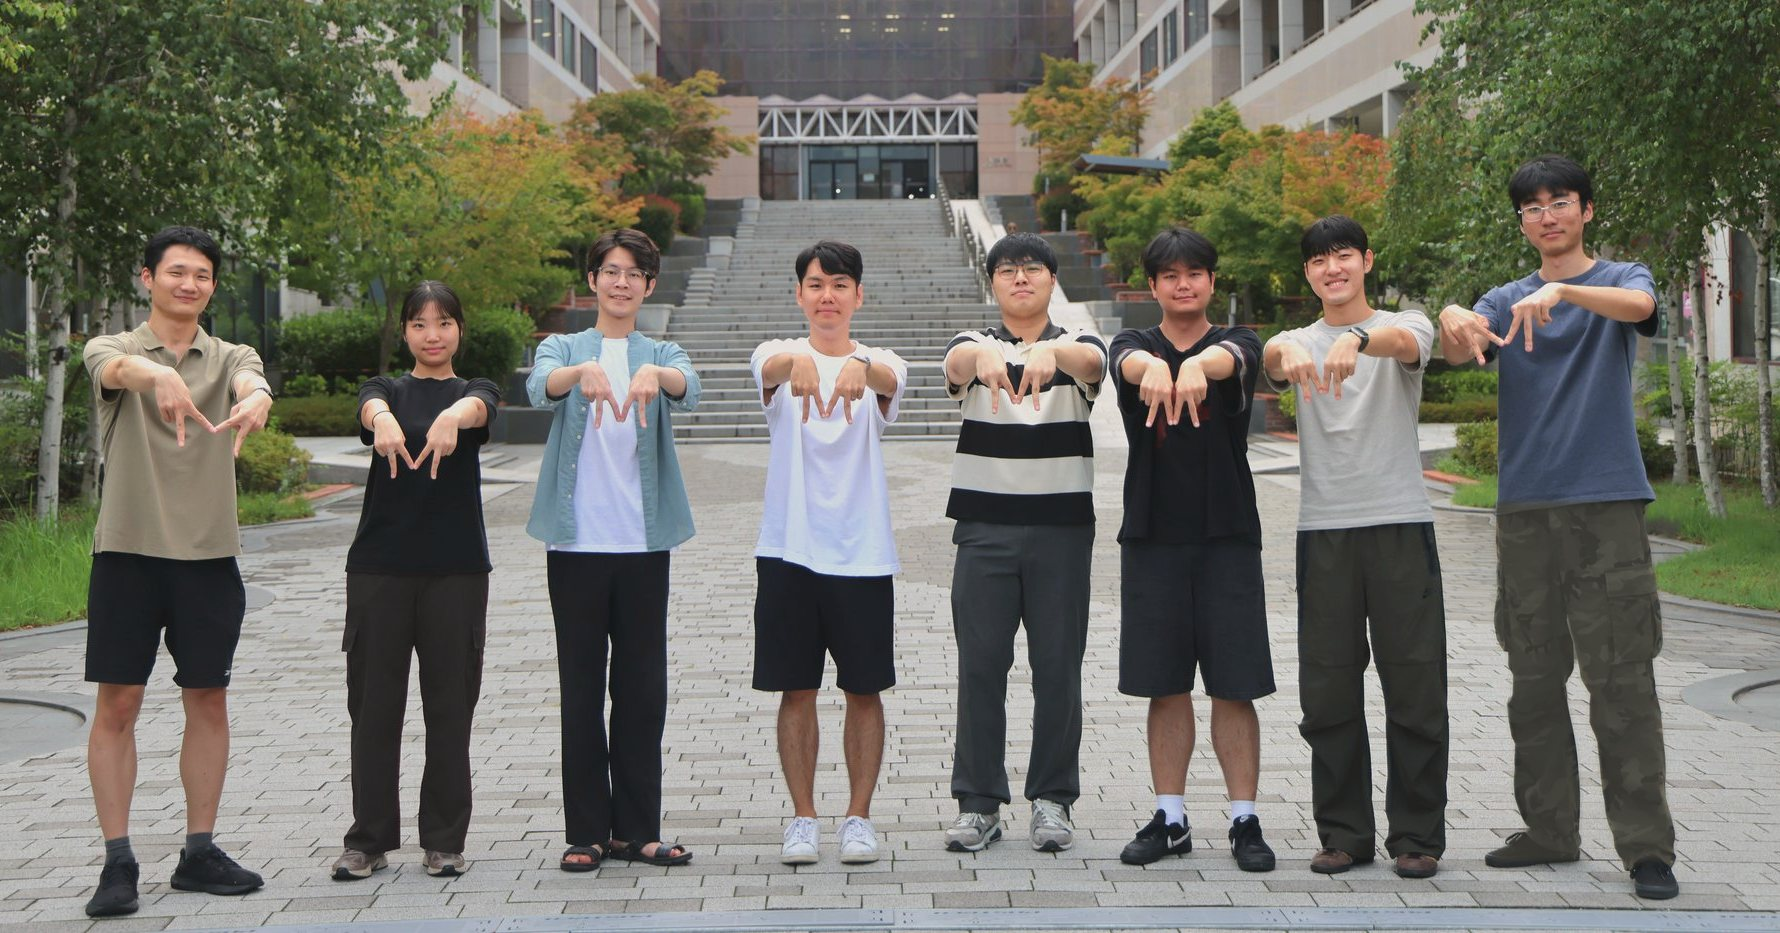
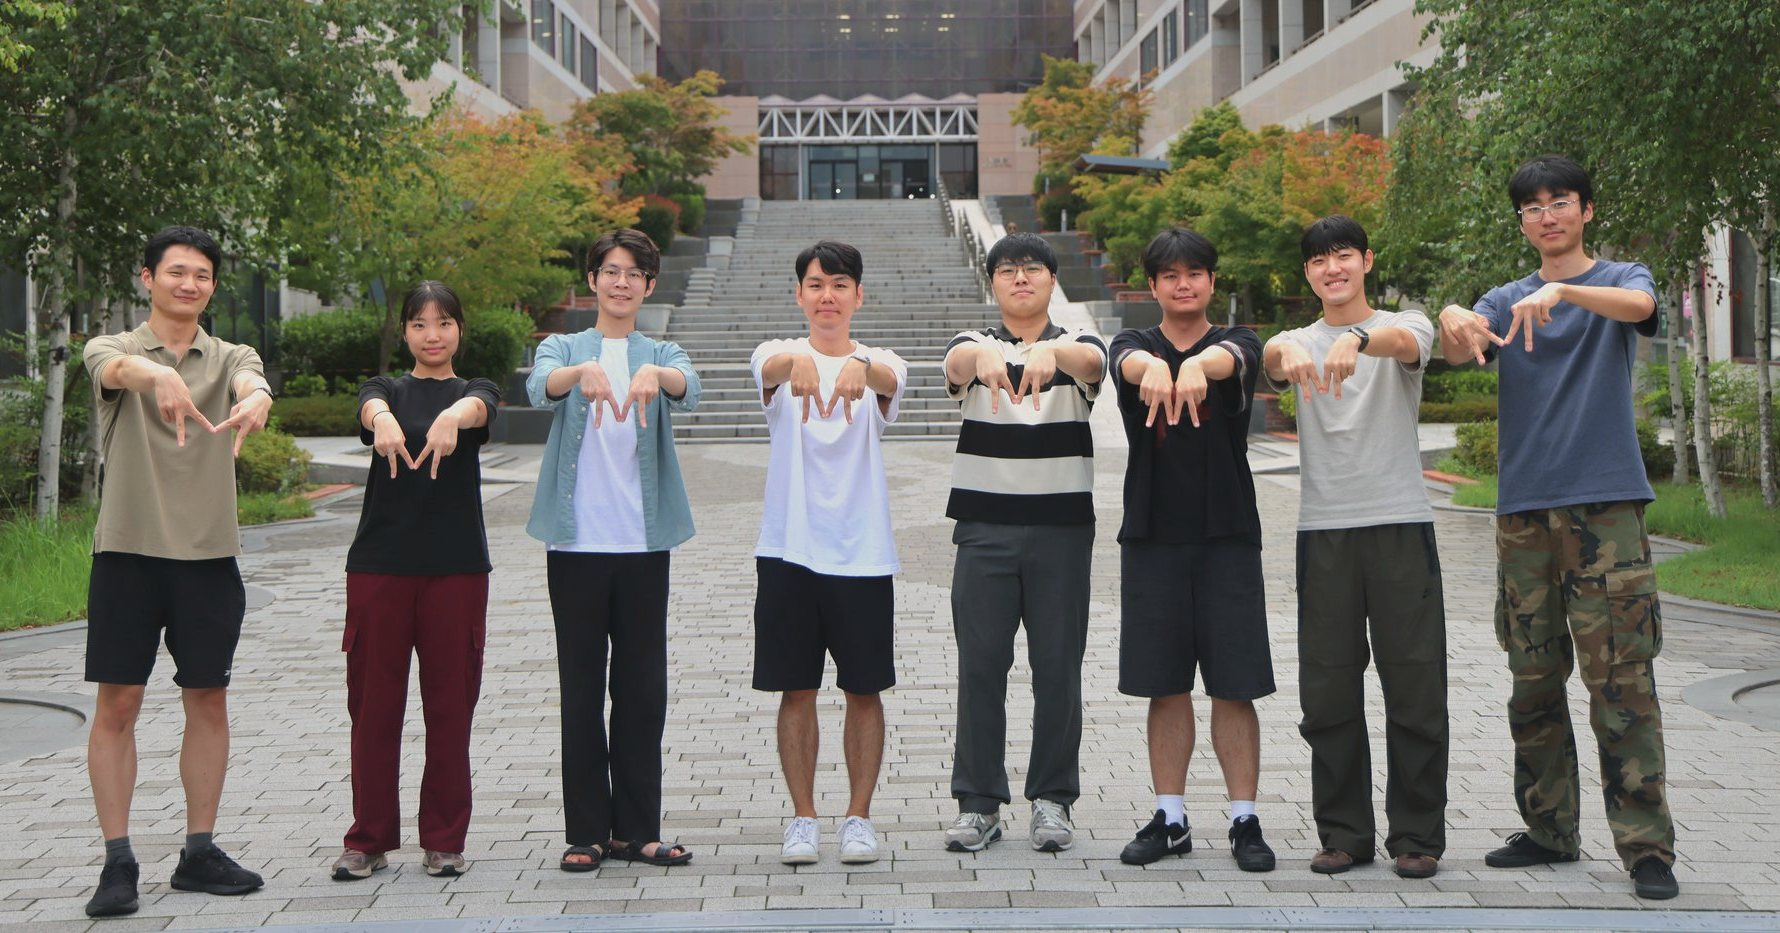
Home group photo: original trouser colours, headroom above the tallest member

diff --git a/_themes/wide/includes/theme.css b/_themes/wide/includes/theme.css
@@ -301,7 +301,7 @@ a.mentee-name:hover { color: var(--accent); }
 .list-intro { margin: 0 0 var(--space-4); color: var(--muted); }  /* one line under a group heading that says what the list is (Teaching: the AI study, 교수 2026-10-27) */
 .list-intro a { color: inherit; font-weight: var(--weight-regular); }
 .list-intro a:hover { color: var(--accent); }
-.section-photo img { display: block; width: 100%; height: var(--photo-height); object-fit: cover; object-position: 50% 40%; border-radius: var(--radius-2); }
+.section-photo img { display: block; width: 100%; height: var(--photo-height); object-fit: cover; object-position: 50% 25%; border-radius: var(--radius-2); }
 .topic-cards { grid-column: span 8; display: grid; grid-template-columns: minmax(0, 1fr); gap: var(--space-4); }  /* one card per row: topics read down the stage like the rail (2026-10-26) */
 .topic-card { display: flex; flex-direction: column; gap: var(--space-2); padding: var(--card-padding); background: var(--surface); border-radius: var(--radius-2); }
 .topic-card h3 { margin: 0; }

diff --git a/changelog/2026-11-03-group-photo-tone.md b/changelog/2026-11-03-group-photo-tone.md
@@ -1,7 +1,7 @@
 # 2026-11-03 Home 단체사진을 사람 중심으로 자르고 사이트 톤에 맞게 보정
 작성자: Sangwoo Mo(moai-postech) | 대상: `assets/img/lab/group-2026.jpg`, `_themes/wide/includes/theme.css` | 도구: Claude Code
 
-> **한줄 결론: 단체사진을 사람 중심으로 미리 자르고 대비·채도를 낮췄으며, 눈에 띄던 바지 두 벌의 색을 다른 멤버의 어두운 하의 톤으로 맞췄다.**
+> **한줄 결론: 단체사진을 사람 중심으로 미리 자르고 대비·채도를 낮췄다. 띠는 머리 위에 여백을 두고 아래쪽 바지를 더 자른다.**
 
 POSTECH 요구사항: 영향 없음
 
@@ -17,7 +17,12 @@ POSTECH 요구사항: 영향 없음
 - 버건디 바지: 붉은 영역만 골라 짙은 차콜로 바꿨다. 주름은 원래 밝기를 그대로 써서 살렸고, 가장자리에 남는 붉은 테두리는 색만 뺐다.
 - 카모 바지: 바지 영역(보도블록·잔디 제외)을 짙은 올리브로 바꾸고 무늬 대비를 40% 로 줄였다. 무늬는 희미하게 남는다.
 - 생성형 AI 는 쓰지 않았다. 영역 마스크와 색 보정만 했고, 얼굴·손·윤곽은 원본 그대로다. 그 뒤 S2 보정과 같은 크롭을 다시 적용했다.
+## 바지 색 원복, 머리 위 여백 (같은 날 이어서)
+교수: 바지 색은 원래대로. 맨 오른쪽 키 큰 멤버의 머리가 띠 위 끝에 붙어 있으니 바지 쪽을 더 자르고 머리 위에 공간을 두자.
+- `group-2026.jpg`: 바지 색을 맞추기 전 S2 사진으로 되돌렸다.
+- `theme.css`: `object-position` 을 `50% 40%` → `50% 25%`. 1440px 화면(띠 370px)에서 가장 키 큰 멤버의 머리 위 여백이 약 0px 에서 약 40px 로, 1200px 화면에서 약 28px 로 늘고, 아래쪽은 무릎 위에서 끝난다. 휴대폰은 사진 전체를 보여서 영향 없음.
 ## 기각한 안과 이유
+- 바지 두 벌 색 맞춤(위 "옷 톤 맞춤"): 화면은 통일되지만 멤버의 개성이 사라지고 손본 티가 난다. 교수가 원래대로 하기로 했다.
 - 생성형 AI 로 옷을 새로 그리기: 손으로 M 을 만든 손이 옷 바로 앞에 있어 손가락과 옷 경계가 뭉개지기 쉽고, 실제 사람 사진에서는 그 흔적이 눈에 띈다.
 - 크롭으로 바지 가리기: 띠가 가로로 길어 여덟 명을 다 넣으려면 무릎까지 들어온다.
 - 대비·채도·선명도를 올리고 비네팅(첫 시안 A·B·C): 사진만 보면 또렷하지만 절제된 Home 화면에서 혼자 튄다. 교수가 너무 선명하다고 했다.
